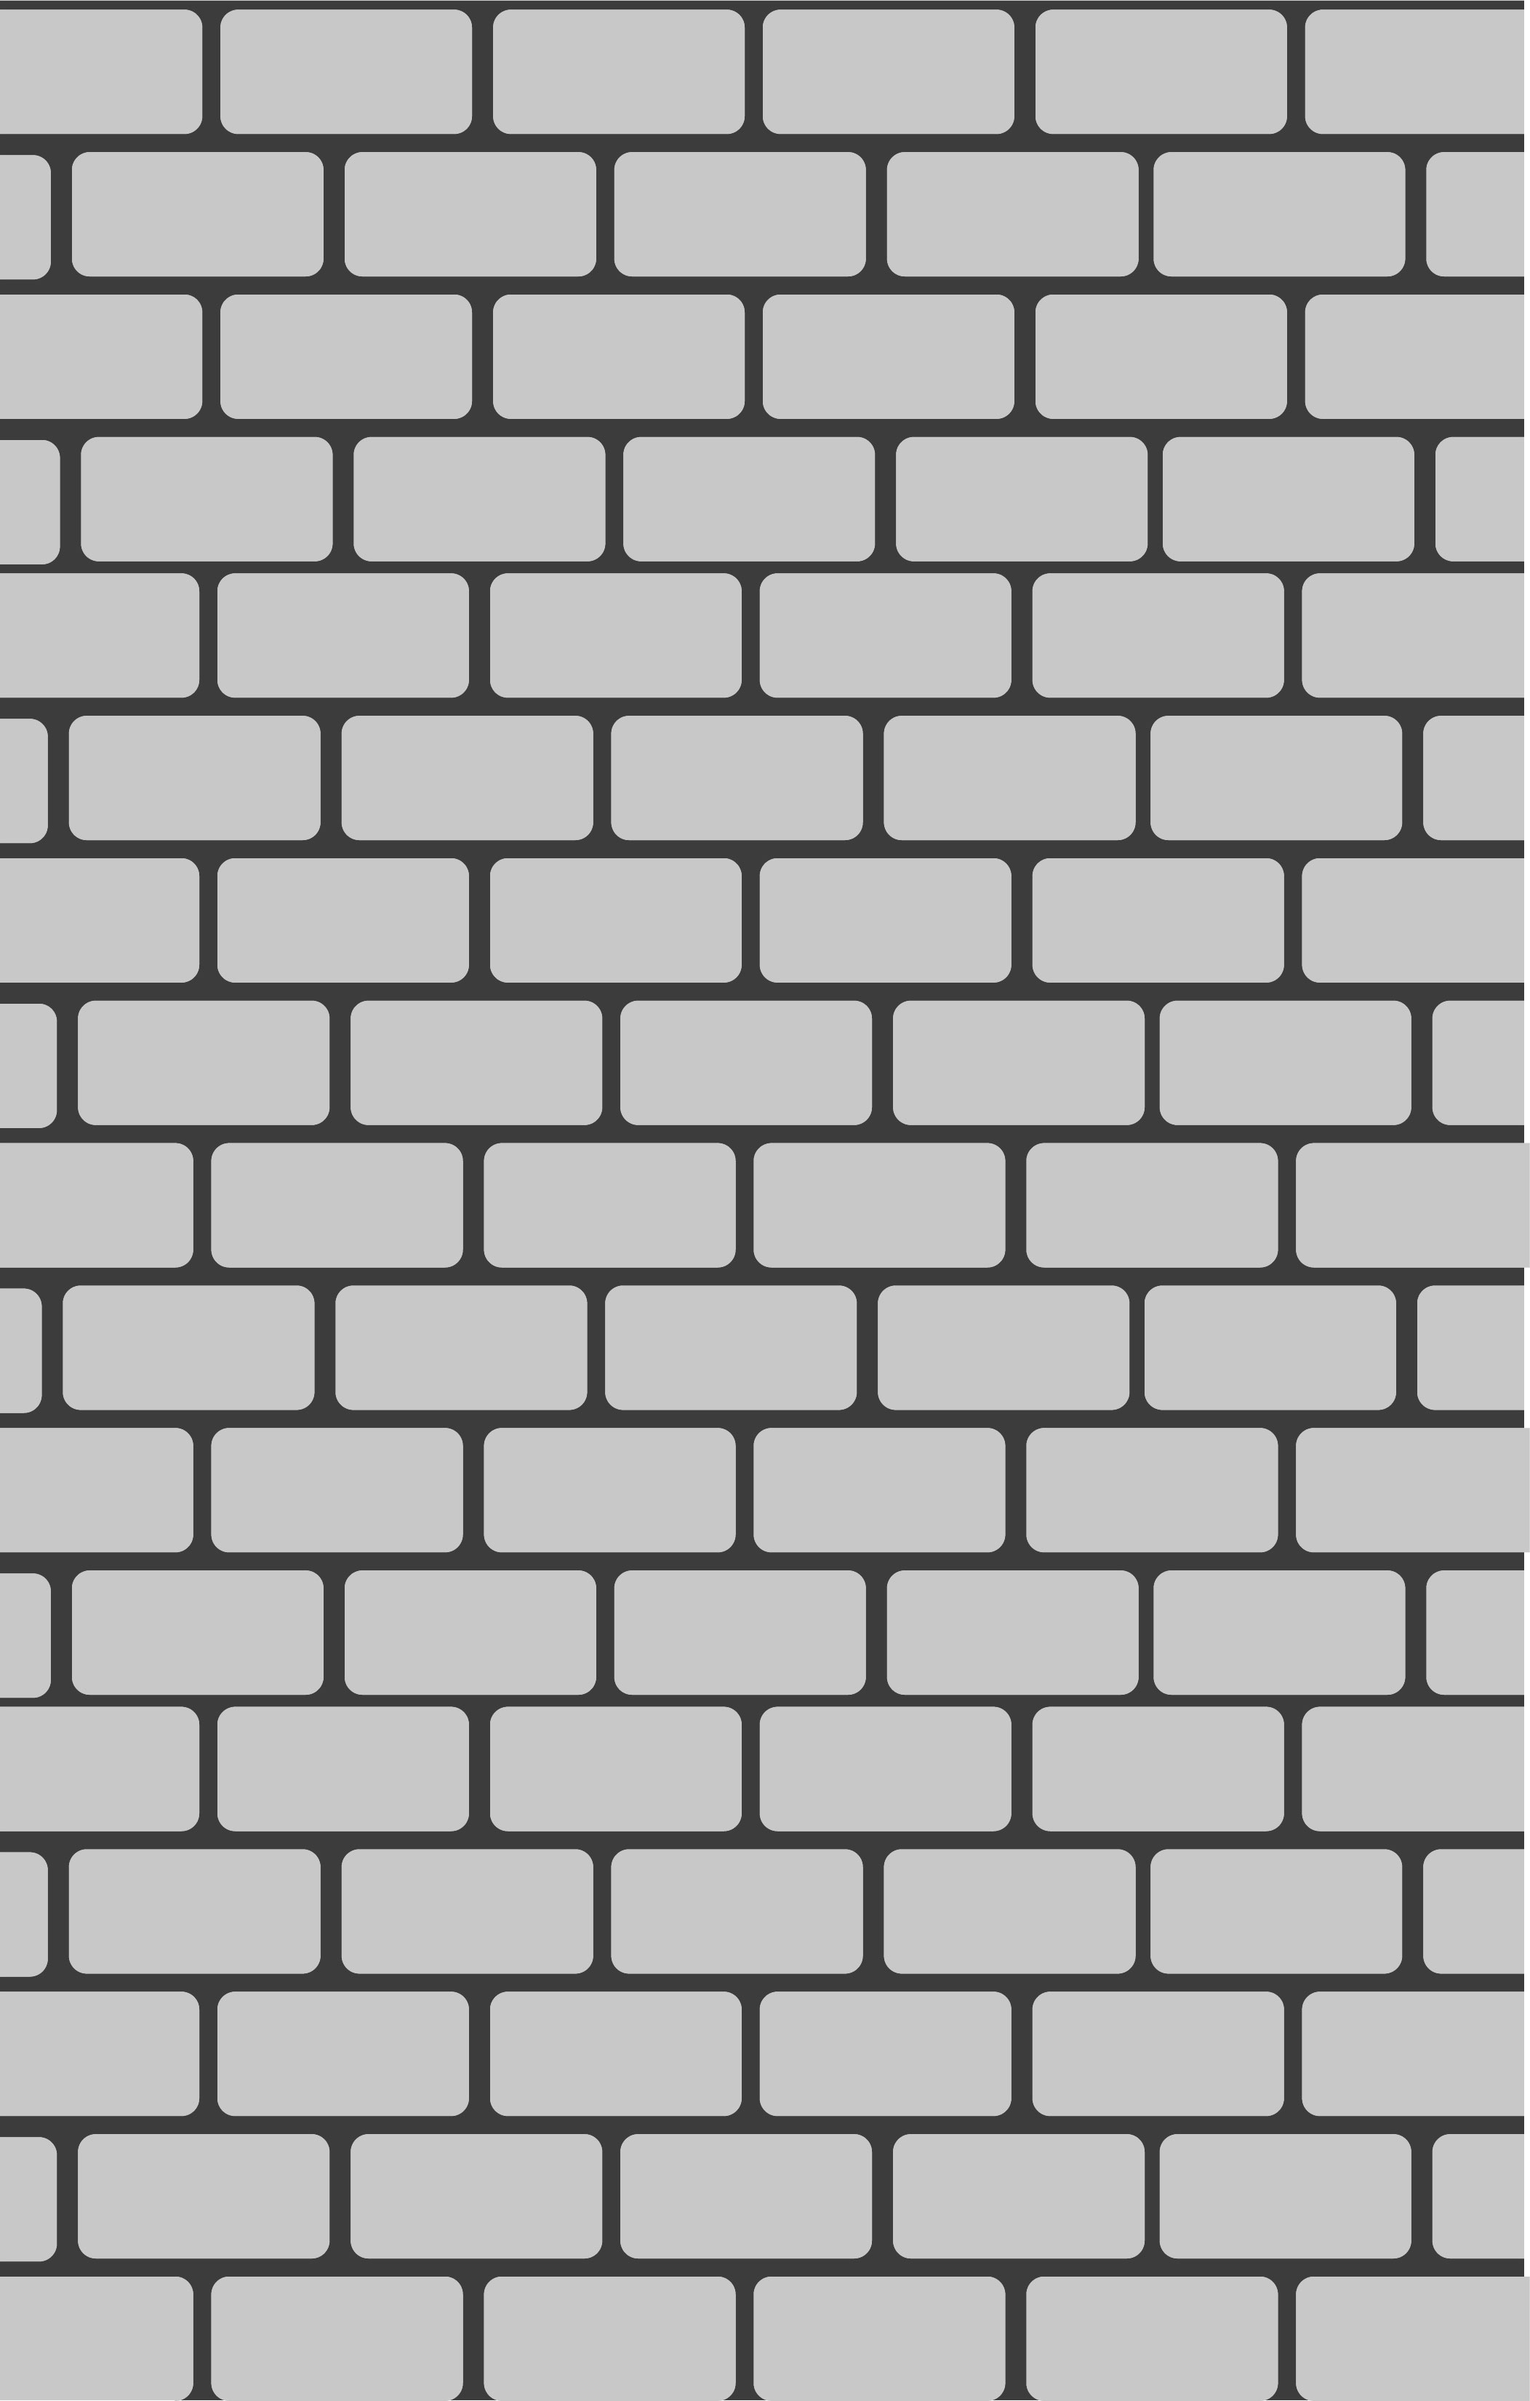
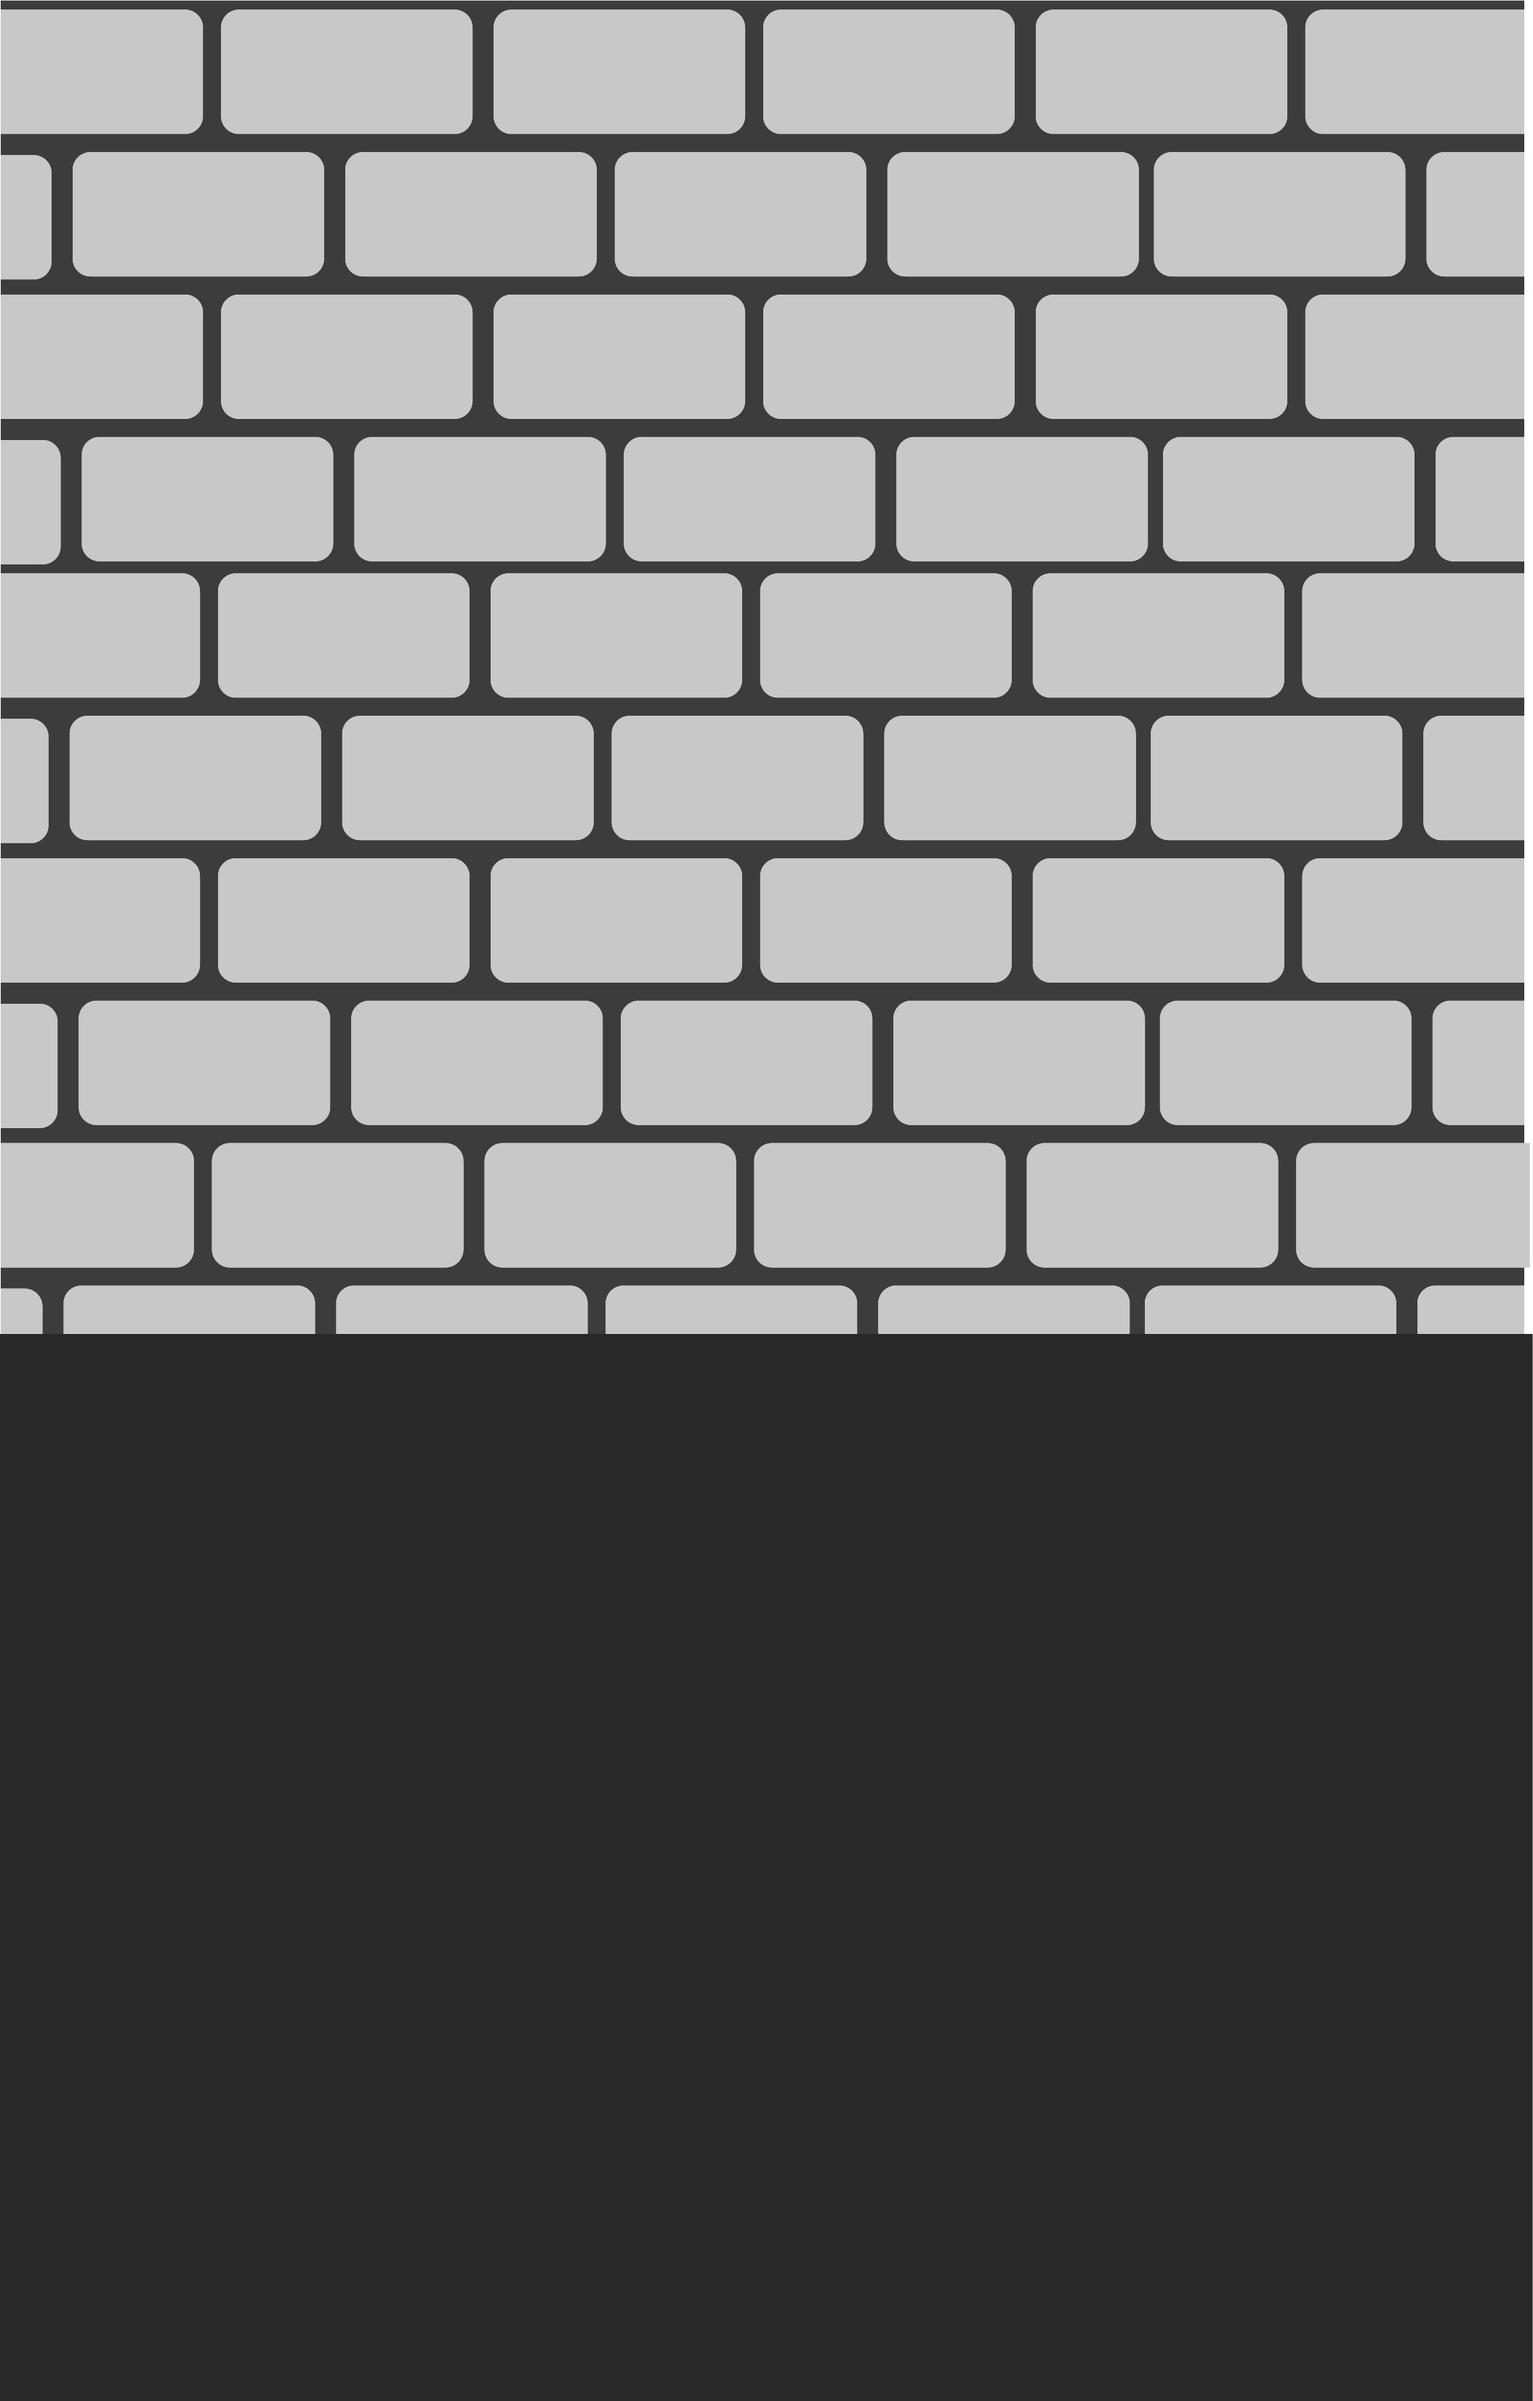
update

diff --git a/studio/project 2/stylesheet.css b/studio/project 2/stylesheet.css
@@ -8,6 +8,9 @@
 }
 
 html { overflow-x: hidden; overflow-y: hidden;
+  background: url(img/brick-wall.jpg);
+  background-size: 500px 844px;
+  background: cover;
 
 }  
 
@@ -21,14 +24,12 @@ html { overflow-x: hidden; overflow-y: hidden;
   border-color: white;
   border-width: 2vw;
   border-style: solid;
+  background-color: black;
 
 }
 
 body {
-    background-image: url(img/brick-wall.jpg);
-    background-size: 500px 844px;
-    -moz-background-clip: 50%;
-    margin: auto;
+    margin:auto;
     overflow-x: hidden;
 
   }
@@ -46,17 +47,20 @@ body {
 
   .wrapper {
     height: 100%;
-    width: 90%;
+    width: 87%;
     transform: perspective(450px) rotateX(30deg);
     overflow-y: scroll;
     overflow-x: hidden;
-    border-left: 4vw;
-    border-right: 4vw;
-    border-color: rgb(36, 36, 36);
+    border-left: 10vw;
+    border-right: 10vw;
+    border-color: rgb(143, 143, 143);
+    border-top-style: solid;
+    border-top-width: 2vw;
+    border-top-color: rgb(0, 0, 0);
     border-style: solid;
     box-shadow: 0px 10px 10px rgb(19, 19, 19);
     position: fixed;
-    top: 35vh;
+    top: 35.5vh;
     
 
   }
@@ -79,9 +83,8 @@ h2 {
     text-align: center;
     font-weight: 800;
     font-size: 6vw;
-    margin-left: 5%;
-    margin-right: 5%;
-    color: white;
+    color: rgb(37, 37, 37);
+    background:rgb(143, 143, 143) ;
 
   }
   
@@ -94,23 +97,26 @@ p {
     margin-left: 10%;
     margin-right: 10%;
     background-size: 4vw;
+    color: white;
 
 }
 
 .semi-circle{
     position: fixed;
-    left: 50%;
+    left: 52vw;
     transform: translate(-50%, -50%);
     height: 50vw;
     width: 70vw;
     border-radius: 35vw 35vw 0 0;
     border-color: rgb(61, 61, 61);
-    background-color: rgb(22, 22, 22);
+    background-color: rgb(0, 0, 0);
     border-width: 3vw;
     border-bottom: 0pt;
     border-style: dashed;
-    float: center;
-    z-index: 1;
-    position: relative; 
     }
 
+    .background{
+  background-color: black; 
+  z-index: 999;
+      }
+  

diff --git a/studio/project 2/second_page.html b/studio/project 2/second_page.html
@@ -7,7 +7,7 @@
 </head>
 
 
-
+<body>  
 
 <div class="circle"> 
 
@@ -20,8 +20,8 @@
 <div class="semi-circle"> 
 
 </div>    
-
-<body>   
+ 
+<div class="background">
 <div class="wrapper">
     <div class="scroll-text">
         <h2> LONDON TO SUEZ </h2>
@@ -95,6 +95,7 @@
         
 
   </div>
-</div>   
+</div> 
+</div>  
 </body>
 </html>
